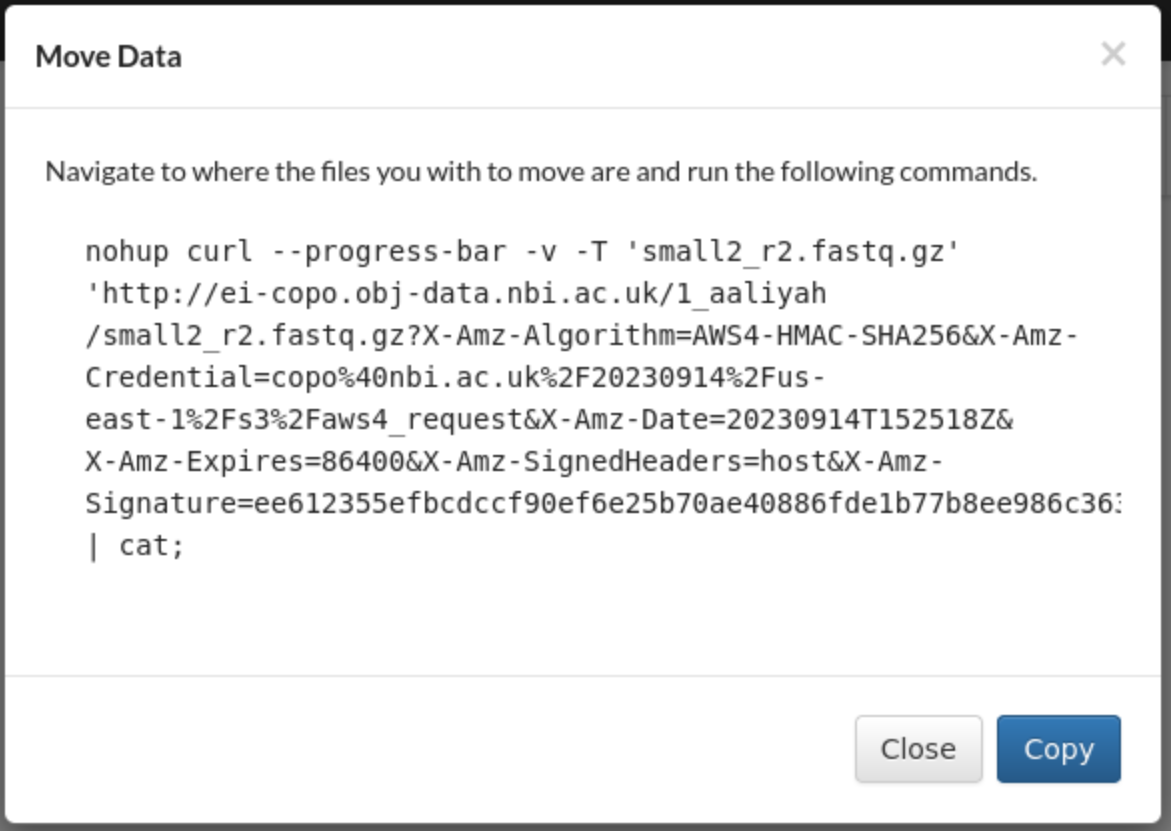
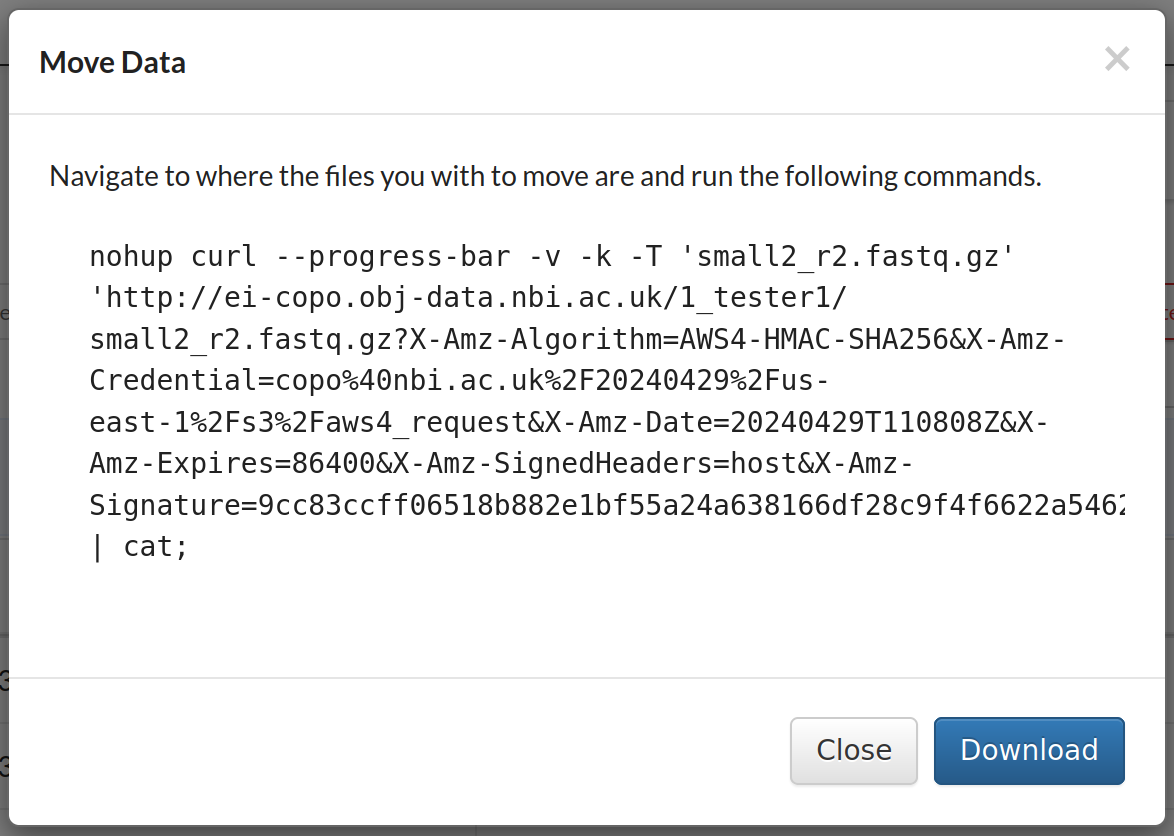
Updated images related to the files submission section; Added information about the 'ENA File Processing Status' column; Removed no longer needed hint about server certificate error when doing file submission via terminal

Changed region(s): [[0.0615, 0.2708, 0.953, 0.6919], [0.0, 0.0, 1.0, 0.9928]]

diff --git a/submissions/files.rst b/submissions/files.rst
@@ -18,6 +18,7 @@ How to Submit Files
 .. seealso::
 
   * :ref:`How to Delete Files <files-deletion>`
+  * :ref:`How to check if data files associated with a metadata submission have been uploaded to ENA <files-ena-upload-status-after-copo-metadata-submission>`
   * :ref:`How to Submit Reads <reads>`
   * :ref:`How to Submit Assemblies <assemblies>`
 
@@ -140,24 +141,6 @@ Submit Files from your Local (Computer) System
 Submit Files via the Terminal
 ~~~~~~~~~~~~~~~~~~~~~~~~~~~~~~
 
-.. _files-submission-via-terminal-hint:
-
-.. hint::
-
-      If you encounter the server certificate error, ``curl: (60) Peer's Certificate issuer is not recognized.``, please
-      perform one of the the following resolutions:
-
-      * **Resolution #1**: Run the command below in the terminal (if you have ``sudo`` rights on your device)
-
-         .. code-block:: bash
-
-            $ sudo apt-get install ca-certificates
-
-        .. centered:: **OR**
-
-      * **Resolution #2**: Replace ``https`` with ``http`` in the generated command
-        indicated :ref:`here <files-submission-via-terminal-copy-commands>` then, run the command in the terminal again.
-
 #. Click the |add-files-via-terminal-button| button on the Files web page to add a new file from a cluster via the
    terminal.
 
@@ -185,58 +168,64 @@ Submit Files via the Terminal
 
       **Files submission: Move Data dialogue**
 
-   * .. figure:: /assets/images/files/files_move_data_dialogue_terminal_input1.png
-        :alt: Terminal with command inputted
-        :align: center
-        :target: https://raw.githubusercontent.com/collaborative-open-plant-omics/Documentation/main/assets/images/files/files_move_data_dialogue_terminal_input1.png
-        :class: with-shadow with-border
+   .. figure:: /assets/images/files/files_move_data_dialogue_terminal_input1.png
+      :alt: Terminal with command inputted
+      :align: center
+      :target: https://raw.githubusercontent.com/collaborative-open-plant-omics/Documentation/main/assets/images/files/files_move_data_dialogue_terminal_input1.png
+      :class: with-shadow with-border
 
-        **Input** $ ``ls - F1`` **command in the terminal**
+      **Input** $ ``ls - F1`` **command in the terminal**
 
-        .. raw:: html
+      .. raw:: html
 
-           <br>
+         <br>
 
-   * .. figure:: /assets/images/files/files_move_data_dialogue_with_details1.png
-        :alt: Move Data dialogue with details inputted
-        :align: center
-        :target: https://raw.githubusercontent.com/collaborative-open-plant-omics/Documentation/main/assets/images/files/files_move_data_dialogue_with_details1.png
-        :class: with-shadow with-border
-        :height: 400px
+   .. figure:: /assets/images/files/files_move_data_dialogue_with_details1.png
+      :alt: Move Data dialogue with details inputted
+      :align: center
+      :target: https://raw.githubusercontent.com/collaborative-open-plant-omics/Documentation/main/assets/images/files/files_move_data_dialogue_with_details1.png
+      :class: with-shadow with-border
+      :height: 400px
 
-        **Move Data dialogue: Input the filename(s) returned after having ran the** $ ``ls - F1`` **command in the
-        terminal. Then, click the** ``Process`` **button.**
+      **Move Data dialogue: Input the filename(s) returned after having ran the** $ ``ls - F1`` **command in the
+      terminal. Then, click the** ``Process`` **button.**
 
-        .. raw:: html
+      .. raw:: html
 
-           <br>
+         <br>
 
-   .. _files-submission-via-terminal-copy-commands:
+   .. _files-submission-via-terminal-download-commands:
 
-   * .. figure:: /assets/images/files/files_move_data_dialogue_with_details2.png
-        :alt: Move Data dialogue with result (a command) after having clicked the "Process" button
-        :align: center
-        :target: https://raw.githubusercontent.com/collaborative-open-plant-omics/Documentation/main/assets/images/files/files_move_data_dialogue_with_details2.png
-        :class: with-shadow with-border
-        :height: 400px
+   .. figure:: /assets/images/files/files_move_data_dialogue_with_details2.png
+      :alt: Move Data dialogue with result (a command) after having clicked the "Process" button
+      :align: center
+      :target: https://raw.githubusercontent.com/collaborative-open-plant-omics/Documentation/main/assets/images/files/files_move_data_dialogue_with_details2.png
+      :class: with-shadow with-border
+      :height: 400px
 
-        **Move Data dialogue: Command outputted after having clicked command in the** ``Process`` **button. Copy the
-        command displayed.**
+      **Move Data dialogue: Command outputted after having clicked command in the** ``Process`` **button. Download the
+      command displayed.**
 
-        If you encounter the server certificate error, ``curl: (60) Peer's Certificate issuer is not recognized.``,
-        please see the :ref:`hint <files-submission-via-terminal-hint>` at the beginning of this section.
+      The downloaded file will have *unknown* or *download* as the file name depending on the browser you are using.
 
-   * .. figure:: /assets/images/files/files_move_data_dialogue_terminal_input2.png
-        :alt: Terminal with command pasted
-        :align: center
-        :target: https://raw.githubusercontent.com/collaborative-open-plant-omics/Documentation/main/assets/images/files/files_move_data_dialogue_terminal_input2.png
-        :class: with-shadow with-border
+   .. raw:: html
 
-        **Paste the copied command in the terminal**
+      <br>
 
-        .. raw:: html
+   .. figure:: /assets/images/files/files_move_data_dialogue_terminal_input2.png
+      :alt: Terminal with command pasted
+      :align: center
+      :target: https://raw.githubusercontent.com/collaborative-open-plant-omics/Documentation/main/assets/images/files/files_move_data_dialogue_terminal_input2.png
+      :class: with-shadow with-border
 
-           <br>
+      **Paste the copied command in the terminal**
+
+      Alternatively, you can make the downloaded file executable then, run the file in the directory
+      where the files are located:
+
+      .. raw:: html
+
+         <br>
 
    .. raw:: html
 
@@ -292,11 +281,49 @@ Click the desired file from the list of files displayed on the Files' web page. 
 
 .. raw:: html
 
-   <br>
+   <hr>
+
+.. _files-ena-upload-status-after-copo-metadata-submission:
+
+Checking ENA File Upload Status
+--------------------------------
+
+.. note::
+
+   A reads, annotations or assembly submission must be completed before the file(s) can be uploaded to
+   ENA (European Nucleotide Archive).
+
+After having completed a reads, annotations or assembly submission and associated a file(s) to it during the
+submission process in COPO, the file(s) are submitted to ENA (European Nucleotide Archive).
+
+The status of the file(s) uploaded to the :abbr:`ENA (European Nucleotide Archive)` can be checked in the column,
+**ENA File Processing Status**, on the reads, annotations or assembly web page.
+
+The **ENA File Processing Status** column is highlighted with a red rectangle border in the image below:
+
+.. figure:: /assets/images/sequence_annotations/sequence_annotations_pointer_to_ena_file_processing_status_column.png
+   :alt: ENA (European Nucleotide Archive) File Processing Status column on the reads, annotations or assembly web page
+   :align: center
+   :target: https://raw.githubusercontent.com/collaborative-open-plant-omics/Documentation/main/assets/images/sequence_annotations/sequence_annotations_pointer_to_ena_file_processing_status_column.png
+   :class: with-shadow with-border
+
+   **ENA File Processing Status: The status of the file(s) uploaded to ENA (European Nucleotide Archive)**
 
 .. raw:: html
 
-   <hr>
+   <br>
+
+.. hint::
+
+   * Rows with a status of **"File archived: PUBLIC"** or in a green colour indicate that the file(s) have been successfully
+     submitted to :abbr:`ENA (European Nucleotide Archive)`.
+
+   * Rows with a status of **"Invalid file integrity: PRIVATE"** or in a red colour indicate that the file(s) failed
+     to be submitted to :abbr:`ENA (European Nucleotide Archive)`.
+
+.. raw:: html
+
+   <br> <hr>
 
 .. rubric:: Footnotes
 

diff --git a/submissions/sequence-annotations.rst b/submissions/sequence-annotations.rst
@@ -12,6 +12,7 @@ Sequence Annotations Submission
 
   * :ref:`How to Update Sequence Annotations <sequence-annotations-update>`
   * :ref:`How to Delete Sequence Annotations <sequence-annotations-deletion>`
+  * :ref:`How to check if data files associated with sequence annotation submissions have been uploaded to ENA <files-ena-upload-status-after-copo-metadata-submission>`
   * :ref:`How to Submit Reads <reads>`
 
 .. raw:: html
@@ -168,7 +169,7 @@ web page. Then, click the **Delete** button (located in the top-right corner of 
 .. figure:: /assets/images/sequence_annotations/sequence_annotations_pointer_to_delete_sequence_annotation_button.png
    :alt: Delete sequence annotations button
    :align: center
-   :target: https://raw.githubusercontent.com/collaborative-open-plant-omics/Documentation/main/assets/images/sequence_annotations/sequence_annotations_pointer_to_delete_sequence_annotations_button.png
+   :target: https://raw.githubusercontent.com/collaborative-open-plant-omics/Documentation/main/assets/images/sequence_annotations/sequence_annotations_pointer_to_delete_sequence_annotation_button.png
    :class: with-shadow with-border
 
    **Sequence annotation deletion: Click the "Delete" button to remove the highlighted sequence annotation from the profile**

diff --git a/submissions/assemblies.rst b/submissions/assemblies.rst
@@ -15,6 +15,7 @@ Assembly Submission
   * :ref:`How to Delete Assemblies <assemblies-deletion>`
   * :ref:`How to Submit Files <files>`
   * :ref:`Types of Files for Assembly Submissions <faq-assemblies-submission-file-types>`
+  * :ref:`How to check if data files associated with assembly submissions have been uploaded to ENA <files-ena-upload-status-after-copo-metadata-submission>`
   * :ref:`Assigning your own Locus Tag Prefix to Assemblies <faq-assemblies-submission-locus-tag-assignment>`
 
 .. raw:: html

diff --git a/help/faq.rst b/help/faq.rst
@@ -107,6 +107,18 @@ Is there a way to analyse metadata submissions?
 
    <hr>
 
+Files
+--------------------
+
+How do I know when data files that have been uploaded to COPO are public on European Nucleotide Archive (ENA)?
+~~~~~~~~~~~~~~~~~~~~~~~~~~~~~~~~~~~~~~~~~~~~~~~~~~~~~~~~~~~~~~~~~~~~~~~~~~~~~~~~~~~~~~~~~~~~~~~~~~~~~~~~~~~~~~~~~
+
+See :ref:`files-ena-upload-status-after-copo-metadata-submission` section for more information.
+
+.. raw:: html
+
+   <hr>
+
 Permits
 --------------------
 

diff --git a/submissions/reads.rst b/submissions/reads.rst
@@ -18,6 +18,7 @@ How to Submit Reads
   * :ref:`How to Update Reads <reads-update>`
   * :ref:`Explore Various Types of Reads Checklist <sample-manifest-checklists>`
   * :ref:`How to Submit Files <files>`
+  * :ref:`How to check if data files associated with reads submissions have uploaded to ENA <files-ena-upload-status-after-copo-metadata-submission>`
   * :ref:`Types of Files for Read Submissions <faq-reads-submission-file-types>`
 
 .. raw:: html
